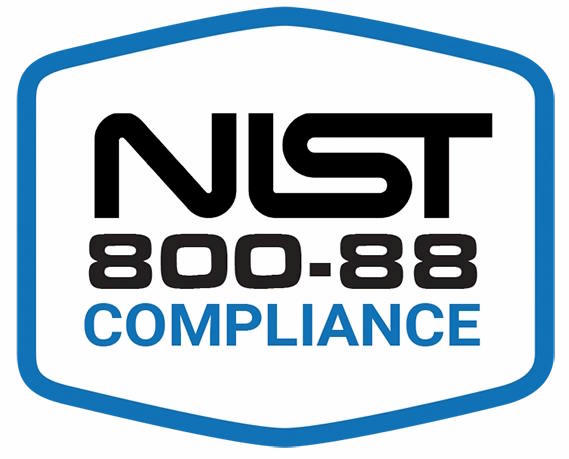
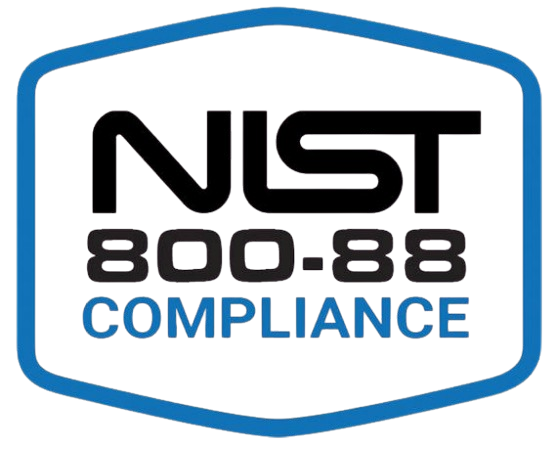
nist-800-88 image bg removed

diff --git a/components/contact/ContactDescription.tsx b/components/contact/ContactDescription.tsx
@@ -145,7 +145,7 @@ export default function ContactDescription() {
                   <a key={name} href={href} target="_blank" rel="noopener noreferrer">
                     <div className="flex h-full flex-col items-center justify-start gap-3 transition-transform duration-300 hover:scale-105">
                       <div className="relative h-20 w-full">
-                        <Image src={image} alt={name} fill className="object-contain bg-white p-3 rounded-md border" />
+                        <Image src={image} alt={name} fill className="object-contain rounded-md" />
                       </div>
                       <span className="text-center text-[11px] font-semibold leading-tight text-slate-600 dark:text-slate-300">
                         {name}
